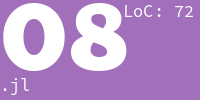
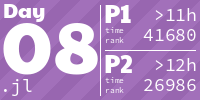
Update script to include striped format

diff --git a/days_plot.py b/days_plot.py
@@ -1,33 +1,85 @@
+# Author: LiquidFun
+# Source: https://github.com/LiquidFun/adventofcode
+
+import itertools
+from collections import namedtuple
 from dataclasses import dataclass
+from functools import cache
 from pathlib import Path
 import re
 
-from PIL import Image
+import requests
+from PIL import Image, ImageColor
 import yaml
 from PIL.ImageDraw import ImageDraw
 from PIL import ImageFont
 
+DEBUG = False
+
 YEAR_PATTERN = r"\d{4}"
 DAY_PATTERN = r"\d{2}"
+
+self_leaderboard_url = "https://adventofcode.com/{year}/leaderboard/self"
+
+aoc_folder = Path("__file__").absolute().parent
+cache_path = aoc_folder / ".cache"
+
+DayScores = namedtuple("DayScores", ["time1", "rank1", "score1", "time2", "rank2", "score2"], defaults=[None] * 3)
+
+not_completed_color = ImageColor.getrgb("#333333")
+
+
+def get_extension_to_colors():
+    extension_to_color = {}
+    with open(aoc_folder / "Media/github_languages.yml", "r") as file:
+        github_languages = yaml.load(file, Loader=yaml.FullLoader)
+        for language, data in github_languages.items():
+            if "color" in data and "extensions" in data:
+                for extension in data["extensions"]:
+                    extension_to_color[extension.lower()] = data["color"]
+    return extension_to_color
+
+
+extension_to_color: dict[str, str] = get_extension_to_colors()
 
 
 def get_paths_matching_regex(path: Path, pattern: str):
     return sorted([p for p in path.iterdir() if re.fullmatch(pattern, p.name)])
 
 
-aoc_folder = Path("__file__").absolute().parent
-years = get_paths_matching_regex(aoc_folder, YEAR_PATTERN)
+def parse_leaderboard(leaderboard_path: Path) -> dict[str, DayScores]:
+    no_stars = "You haven't collected any stars... yet."
+    start = '<span class="leaderboard-daydesc-both">    Time   Rank  Score</span>\n'
+    end = "</pre>"
+    with open(leaderboard_path) as file:
+        html = file.read()
+        if no_stars in html:
+            return {}
+        matches = re.findall(rf"{start}(.*?){end}", html, re.DOTALL | re.MULTILINE)
+        assert len(matches) == 1, f"Found {'no' if len(matches) == 0 else 'more than one'} leaderboard?!"
+        table_rows = matches[0].strip().split("\n")
+        leaderboard = {}
+        for line in table_rows:
+            day, *scores = re.split(r"\s+", line.strip())
+            assert len(scores) in (3, 6), f"Number scores for {day=} ({scores}) are not 3 or 6."
+            leaderboard[day] = DayScores(*scores)
+        return leaderboard
 
-extension_to_color = {}
 
-with open(aoc_folder / "Media/github_languages.yml", "r") as file:
-    github_languages = yaml.load(file, Loader=yaml.FullLoader)
-    for language, data in github_languages.items():
-        if "color" in data and "extensions" in data:
-            for extension in data["extensions"]:
-                extension_to_color[extension.lower()] = data["color"]
+def request_leaderboard(year) -> dict[str, DayScores]:
+    leaderboard_path = cache_path / f"leaderboard{year}.html"
+    if leaderboard_path.exists():
+        leaderboard = parse_leaderboard(leaderboard_path)
+        has_no_none_values = all(itertools.chain(map(list, leaderboard.values())))
+        if has_no_none_values:
+            return leaderboard
+    with open("session.cookie") as cookie_file:
+        session_cookie = cookie_file.read().strip()
+        data = requests.get(self_leaderboard_url.format(year=year), cookies={"session": session_cookie}).text
+        with open(leaderboard_path, "w") as file:
+            file.write(data)
+    return parse_leaderboard(leaderboard_path)
 
-print(extension_to_color)
 
 class HTMLTag:
     def __init__(self, parent: "HTML", tag: str, closing: bool = True, **kwargs):
@@ -64,23 +116,88 @@ class HTML:
         return "\n".join(self.tags)
 
 
-def gen_day_graphic(day: str, year: str, languages: list[str], loc: int) -> Path:
-    color = extension_to_color[languages[0]] if languages else "#333333"
-    image = Image.new("RGB", (200, 100), color)
-    drawer = ImageDraw(image)
-    main_font = ImageFont.truetype("Media/fonts/PaytoneOne.ttf", 98)
-    side_font = ImageFont.truetype("Media/fonts/SourceCodePro-Regular.otf", 17)
-    drawer.text((0, -40), str(day), fill="white", align="center", font=main_font)
-    drawer.text((0, 74), ' '.join(languages), fill="white", align="left", font=side_font)
+def darker_color(c: tuple[int, int, int, int]) -> tuple[int, int, int, int]:
+    return (c[0] - 10, c[1] - 10, c[2] - 10, 255)
 
-    drawer.text((123, 0), f"LoC:{loc:3}", fill="white", align="right", font=side_font)
+
+def get_alternating_background(languages, both_parts_completed=True, *, stripe_width=20):
+    colors = [ImageColor.getrgb(extension_to_color[language]) for language in languages]
+    if len(colors) == 1:
+        colors.append(darker_color(colors[0]))
+    image = Image.new("RGB", (200, 100), not_completed_color)
+
+    def fill_with_colors(colors, fill_only_half):
+        for x in range(image.width):
+            for y in range(image.height):
+                if fill_only_half and x / image.width + y / image.height > 1:
+                    continue
+                image.load()[x, y] = colors[((x + y) // stripe_width) % len(colors)]
+
+    fill_with_colors([not_completed_color, darker_color(not_completed_color)], False)
+    if colors:
+        fill_with_colors(colors, not both_parts_completed)
+    return image
+
+
+@cache
+def get_font(name: str, size: int):
+    return ImageFont.truetype(name, size)
+
+
+def fmt_time(time: str) -> str:
+    time = time.replace("&gt;", ">")
+    if ">" in time:
+        formatted = time
+    else:
+        h, m, s = time.split(":")
+        formatted = f">{h}h" if int(h) >= 1 else f"{m:02}:{s:02}"
+    return f"{formatted:>5}"
+
+
+def gen_day_graphic(day: str, year: str, languages: list[str], day_scores: DayScores | None) -> Path:
+    image = get_alternating_background(languages, not (day_scores is None or day_scores.time2 is None))
+    drawer = ImageDraw(image)
+    paytone = lambda size: get_font("Media/fonts/PaytoneOne.ttf", size)
+    source_code = lambda size: get_font("Media/fonts/SourceCodePro-Regular.otf", size)
+    drawer.text((1, -10), str(day), fill="white", align="center", font=paytone(75))
+    lang_as_str = ' '.join(languages)
+    lang_font_size = max(6, int(18 - max(0, len(lang_as_str) - 8) * 1.3))
+    drawer.text((0, 74), lang_as_str, fill="white", align="left", font=source_code(lang_font_size))
+    drawer.text((3, -5), "Day", fill="white", align="left", font=paytone(20))
+
+    # drawer.text((123, 0), f"LoC:{loc:3}", fill="white", align="right", font=source_code(18))
+
+    if day_scores is not None and day_scores.time1 is not None:
+        drawer.text((104, -5), "P1 ", fill="white", align="left", font=paytone(25))
+        drawer.text((105, 25), "time", fill="white", align="right", font=source_code(8))
+        drawer.text((105, 35), "rank", fill="white", align="right", font=source_code(8))
+        drawer.text((143, 3), fmt_time(day_scores.time1), fill="white", align="right", font=source_code(18))
+        drawer.text((143, 23), f"{day_scores.rank1:>5}", fill="white", align="right", font=source_code(18))
+    else:
+        drawer.line((140, 15, 160, 35), fill="white", width=2)
+        drawer.line((140, 35, 160, 15), fill="white", width=2)
+    if day_scores is not None and day_scores.time2 is not None:
+        drawer.text((104, 45), "P2 ", fill="white", align="left", font=paytone(25))
+        drawer.text((105, 75), "time", fill="white", align="right", font=source_code(8))
+        drawer.text((105, 85), "rank", fill="white", align="right", font=source_code(8))
+        drawer.text((143, 53), fmt_time(day_scores.time2), fill="white", align="right", font=source_code(18))
+        drawer.text((143, 73), f"{day_scores.rank2:>5}", fill="white", align="right", font=source_code(18))
+    else:
+        drawer.line((140, 65, 160, 85), fill="white", width=2)
+        drawer.line((140, 85, 160, 65), fill="white", width=2)
+
+    if day_scores is None:
+        drawer.line((10, 85, 70, 85), fill="white", width=2)
+    drawer.line((100, 5, 100, 95), fill="white", width=1)
+    drawer.line((105, 50, 195, 50), fill="white", width=1)
+
     path = aoc_folder / f"Media/{year}/{day}.png"
     path.parent.mkdir(parents=True, exist_ok=True)
     image.save(path)
     return path
 
 
-def handle_day(day_path: Path, html: HTML):
+def handle_day(day_path: Path, html: HTML, day_scores: DayScores | None):
     languages = []
     solution_file_path = None
     loc = 0
@@ -92,7 +209,10 @@ def handle_day(day_path: Path, html: HTML):
                     loc = solution_file_path.open().read().count("\n")
                 languages.append(file_path.suffix.lower())
     languages = list(set(languages))
-    day_graphic_path = gen_day_graphic(day_path.name, day_path.parent.name, languages, loc)
+    if DEBUG:
+        if day_path.name == "25":
+            languages = []
+    day_graphic_path = gen_day_graphic(day_path.name, day_path.parent.name, languages, day_scores)
     day_graphic_path = day_graphic_path.relative_to(aoc_folder)
     with html.tag("td"):
         with html.tag("a", href=str(solution_file_path)):
@@ -100,34 +220,36 @@ def handle_day(day_path: Path, html: HTML):
 
 
 def handle_year(year_path: Path):
+    leaderboard = request_leaderboard(year_path.name)
+    if DEBUG:
+        leaderboard["25"] = None
+        leaderboard["24"] = DayScores("22:22:22", "12313", "0")
     html = HTML()
+    with html.tag("h1", align="center"):
+        html.push(f"{year_path.name}")
     with html.tag("table"):
-        print(year_path)
         for day in range(1, 26, 5):
             with html.tag("tr"):
                 for row in range(5):
-                    day_str = f"{day+row:02}"
+                    day_str = f"{day + row:02}"
                     day_path = year_path / day_str
                     if day_path.exists():
-                        handle_day(day_path, html)
-    print(html)
+                        handle_day(day_path, html, leaderboard.get(str(day + row), None))
     with open("README.md", "r") as file:
         text = file.read()
 
         begin = "<!-- REPLACE FROM -->"
         end = "<!-- REPLACE UNTIL -->"
         pattern = re.compile(rf"{begin}.*{end}", re.DOTALL | re.MULTILINE)
-        print(pattern)
         new_text = pattern.sub(f"{begin}\n{html}\n{end}", text)
     with open("README.md", "w") as file:
-        print(new_text)
         file.write(str(new_text))
 
 
 def main():
-    for year in years:
-        print(year)
-        handle_year(year)
+    for year_path in get_paths_matching_regex(aoc_folder, YEAR_PATTERN):
+        print(f"Generating table for year {year_path.name}")
+        handle_year(year_path)
 
 
 if __name__ == '__main__':

diff --git a/README.md b/README.md
@@ -6,9 +6,10 @@ Programs are initialized with the `init-day.sh` script. I.e. typing `init-day.sh
 
 * 2021: There is a solution for each problem in Julia. Sometimes there is a Python or APL solution as well. I'm trying out Julia for the first time, mostly focusing on short and elegant code. 
 
-## Lines of code
-
 <!-- REPLACE FROM -->
+<h1 align="center">
+  2021
+</h1>
 <table>
   <tr>
     <td>
@@ -147,5 +148,3 @@ Programs are initialized with the `init-day.sh` script. I.e. typing `init-day.sh
   </tr>
 </table>
 <!-- REPLACE UNTIL -->
-
-![](./Media/2021loc.png)
